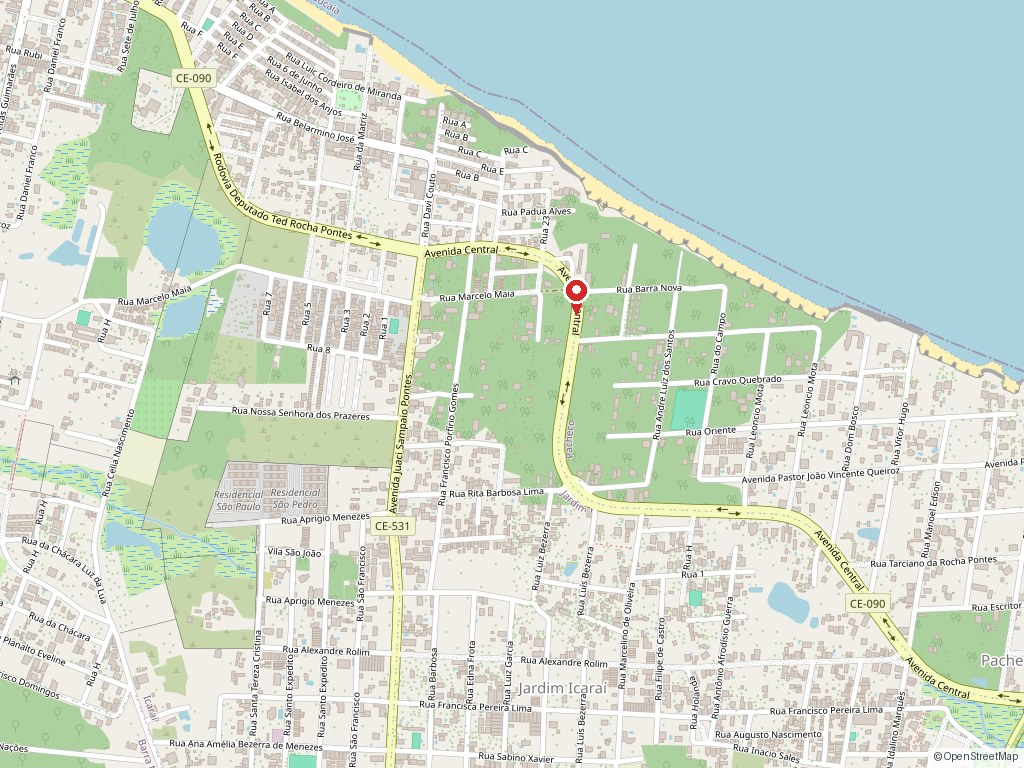
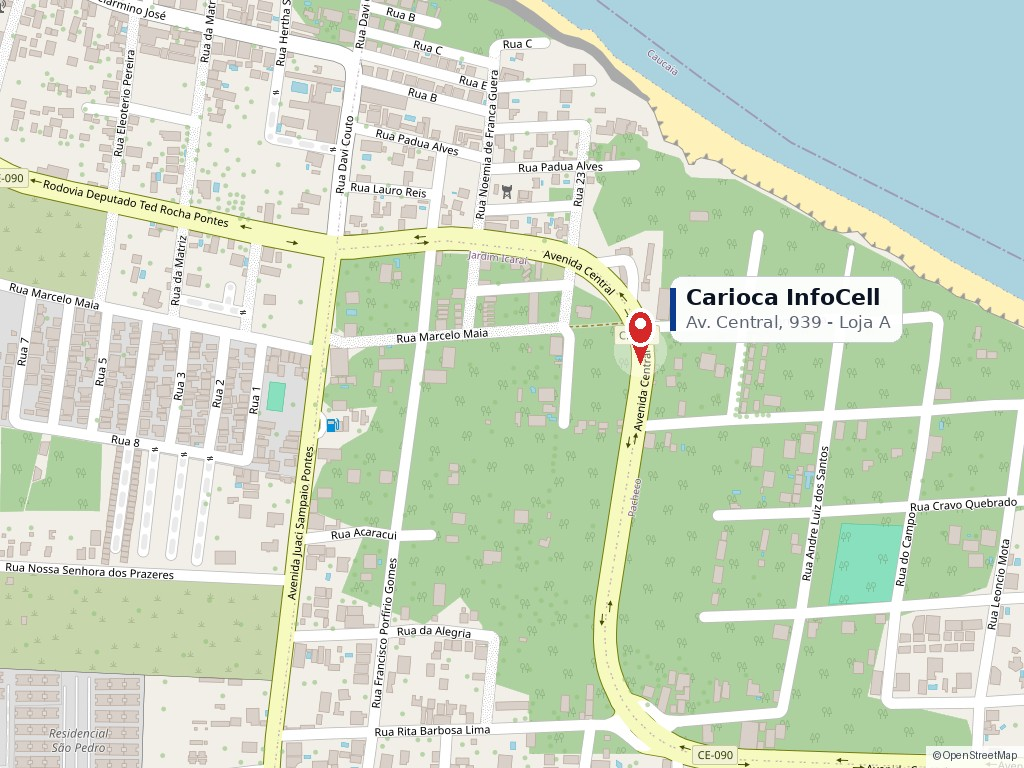
Contato: foto da home + foto das capinhas; mapa novo com endereco no pino

diff --git a/contato.html b/contato.html
@@ -46,19 +46,19 @@
         </div>
 
         <a class="mapa" id="mapaImg" target="_blank" rel="noopener" href="#" aria-label="Abrir a localização no Google Maps">
-          <img src="assets/img/mapa-loja.jpg" alt="Mapa da localização da Carioca InfoCell na Av. Central, 939, Icaraí, Caucaia/CE" loading="lazy" width="1024" height="768">
+          <img src="assets/img/mapa-loja.jpg?v=2" alt="Mapa da localização da Carioca InfoCell na Av. Central, 939, Icaraí, Caucaia/CE" loading="lazy" width="1024" height="768">
         </a>
         <p style="text-align:center;margin-top:12px"><a class="btn btn-linha" style="color:var(--azul);border-color:#c9d9f7" id="mapaLink" target="_blank" rel="noopener" href="#">Abrir no Google Maps →</a></p>
       </div>
 
       <div>
-        <div class="foto" style="aspect-ratio:9/16;max-width:380px;margin:0 auto">
-          <span class="foto-bg" style="background-image:url(&quot;assets/img/loja-fachada.jpg&quot;)" aria-hidden="true"></span>
-          <img src="assets/img/loja-fachada.jpg" alt="Fachada da Carioca InfoCell">
-        </div>
-        <div class="foto" style="aspect-ratio:5/4;max-width:380px;margin:16px auto 0">
+        <div class="foto" style="aspect-ratio:5/4;max-width:420px;margin:0 auto">
           <span class="foto-bg" style="background-image:url(&quot;assets/img/loja-interior.jpg&quot;)" aria-hidden="true"></span>
-          <img src="assets/img/loja-interior.jpg" alt="Interior da loja Carioca InfoCell">
+          <img src="assets/img/loja-interior.jpg" alt="Interior da loja Carioca InfoCell, com as prateleiras de acessórios e o balcão">
+        </div>
+        <div class="foto" style="aspect-ratio:1/1;max-width:420px;margin:16px auto 0">
+          <span class="foto-bg" style="background-image:url(&quot;assets/img/capinhas-animais.jpg&quot;)" aria-hidden="true"></span>
+          <img src="assets/img/capinhas-animais.jpg" alt="Capinhas de celular coloridas expostas na loja">
         </div>
       </div>
     </div>
